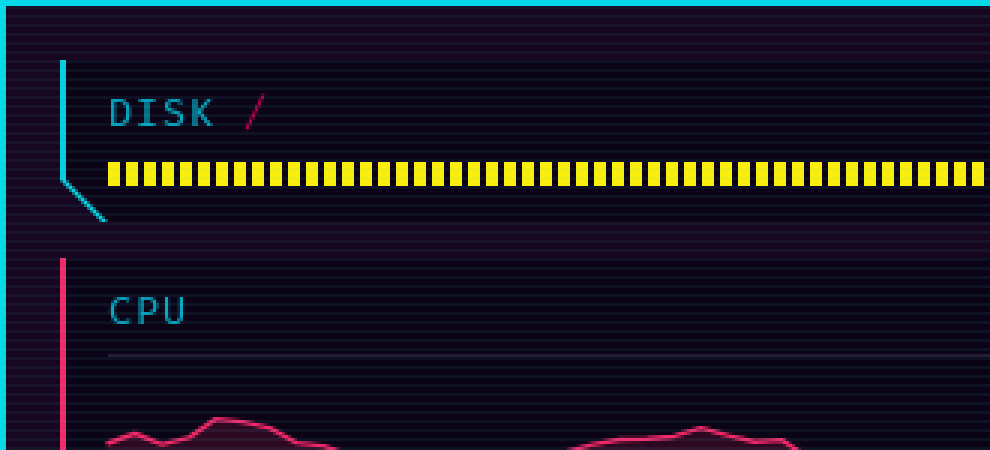
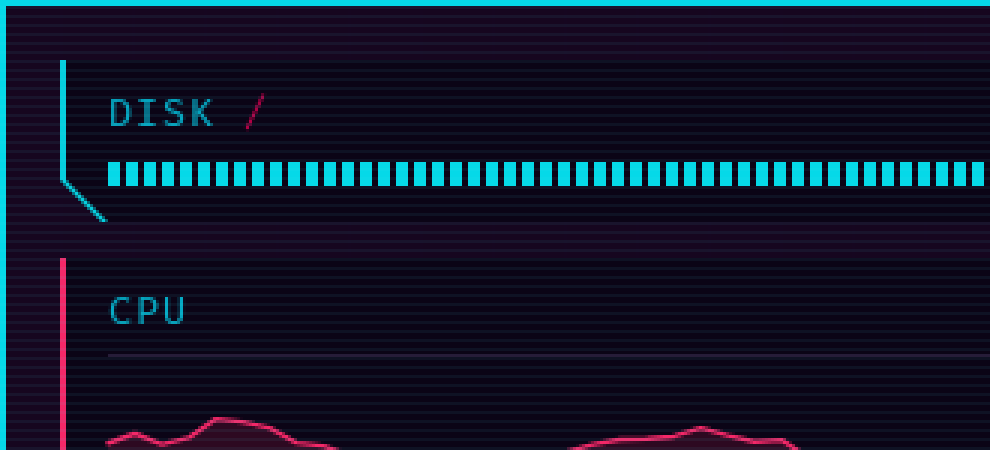
Keep the disk bar on its own points: yellow from 75%, red from 90%
A disk fills, it does not heat: on the heat ramp it turned yellow at
half full, where most disks sit all day. It keeps its old points, with
red as its top step. The design reference says so.

Changed region(s): [[0.0909, 0.3422, 1.0, 0.4356]]

diff --git a/indigoshell/widgets/hardware_panel.py b/indigoshell/widgets/hardware_panel.py
@@ -43,13 +43,30 @@ def fmt_bytes(n: float) -> str:
 
 
 def heat_color(pct: float) -> str:
-    """Cool -> warm -> hot, shared by disk and temperature: the bar's
-    TEMP ramp (theme.HEAT_RAMP), red from 80% of the scale."""
+    """Cool -> warm -> hot, for temperature: the bar's TEMP ramp
+    (theme.HEAT_RAMP), red from 80% of the scale."""
     chosen = theme.HEAT_RAMP[0][1]
     for share, color in theme.HEAT_RAMP:
         if pct >= share * 100:
             chosen = color
     return chosen
+
+
+# A disk fills, it does not heat: most disks sit above half full, so the
+# heat ramp would keep this bar yellow all day. Its own points instead,
+# with red (theme.ERROR) only when it is nearly full.
+DISK_WARN_PCT = 75.0
+DISK_FULL_PCT = 90.0
+
+
+def disk_color(pct: float) -> str:
+    """The disk bar: cyan, yellow from DISK_WARN_PCT, red from
+    DISK_FULL_PCT."""
+    if pct >= DISK_FULL_PCT:
+        return theme.ERROR
+    if pct >= DISK_WARN_PCT:
+        return theme.YELLOW_BRIGHT
+    return theme.CYAN_BRIGHT
 
 
 def temp_pct(celsius: float) -> float:
@@ -146,7 +163,7 @@ class HardwarePanel(Widget):
 
         # ── disk ────────────────────────────────────────────────────────
         self._disk_value = value_label()
-        self._disk_bar = BarMeter(color=heat_color, min_width=width - 40)
+        self._disk_bar = BarMeter(color=disk_color, min_width=width - 40)
         disk = HudCard(Column([
             Row([key_label("DISK"), meta_label(disk_mount, color=theme.FG),
                  Spacer(), self._disk_value], spacing=10, align=Align.CENTER),

diff --git a/docs/design/README.md b/docs/design/README.md
@@ -88,7 +88,7 @@ off every use in the code (tokens.json `color.palette[*].role`).
 | `LIME_DIM` | `#3a4a0a` | a full battery's empty cells |
 | **Violet** `VIOLET_BRIGHT` (`AGENT_ACCENT`, voice Indigo) | `#b967ff` | **the agent**: its frame, chip, plate tint, selection on the call (38%), progress cells; also the RAM meter, the volume level, normal toast body text |
 | `VIOLET` / `VIOLET_DIM` | `#7700a6` / `#2a0a3a` | RAM label, a finished job's cells / unlit violet cells |
-| **Red** `ERROR` | `#ff003c` | **errors, alarms, hot — and nothing else**: critical toast, failed step `×`, SCRUB, a dropped line, the agent **ringing back**, an urgent workspace, no network address, volume muted, **hot** (the bar's TEMP and the hardware panel's disk and GPU temperature at ≥ 80% of their scale), a **failed or inactive firewall**, insecure padlock, "no matches" |
+| **Red** `ERROR` | `#ff003c` | **errors, alarms, hot — and nothing else**: critical toast, failed step `×`, SCRUB, a dropped line, the agent **ringing back**, an urgent workspace, no network address, volume muted, **hot** (the bar's TEMP and the hardware panel's GPU temperature at ≥ 80% of their scale), a **nearly full disk** (≥ 90%), a **failed or inactive firewall**, insecure padlock, "no matches" |
 | `HUD_FG` | `#a0a8c8` | body text on plates (blue-grey: long runs of neon are unreadable) |
 | `HUD_FG_BRIGHT` | `#c8d0e8` | bright body text: the agent's reply, typed text, row titles |
 | `BASE_MUTED` | `#5a4a78` | **the muted tone**: every secondary text (dates, IPs, units, app names, tabs behind, key hints, state words). The most used colour after the neons |
@@ -109,9 +109,11 @@ off every use in the code (tokens.json `color.palette[*].role`).
   indicator is.
 - **Heat is one ramp** (`theme.HEAT_RAMP`): cyan, **yellow from 50%**,
   **red from 80%** of the scale, for the bar's TEMP and the hardware
-  panel's disk and GPU temperature alike; both temperatures read 30 °C
-  empty to 90 °C full (`TEMP_MIN_C`/`TEMP_MAX_C`), so yellow from 60 °C,
-  red from 78 °C.
+  panel's GPU temperature alike; both read 30 °C empty to 90 °C full
+  (`TEMP_MIN_C`/`TEMP_MAX_C`), so yellow from 60 °C, red from 78 °C.
+- **A disk fills, it does not heat**: the disk bar keeps its own points
+  (`hardware_panel.DISK_WARN_PCT`/`DISK_FULL_PCT`): cyan, yellow from
+  75%, red only from 90% full.
 - **Every dot is a square light** (§4): its colour says what, filled
   says on or current, its outline says off.
 
@@ -506,7 +508,8 @@ bevel 14, padding 10/14/10/16, the 2 px accent stripe wrapping the
 bottom-left cut (DISK cyan, CPU magenta, RAM violet, GPU cyan, state yellow).
 Card rows: KEY 13 px `CYAN_MID` tracking 1 (in a fixed cell when stacked),
 meta 13 px muted, value 13 px bold `YELLOW_BRIGHT` at the right; segmented
-bars 4/2 × 8, the disk and GPU-temperature bars in the heat ramp (§2);
+bars 4/2 × 8, the GPU-temperature bar in the heat ramp and the disk bar
+on its own points (§2);
 1-minute line graphs (1.4 px line, 14% fill, a 35% ceiling rule, a 5 px
 square light on the newest sample). The network panel: its FIREWALL row's
 square light lime and filled while a firewall runs, red and hollow when it
